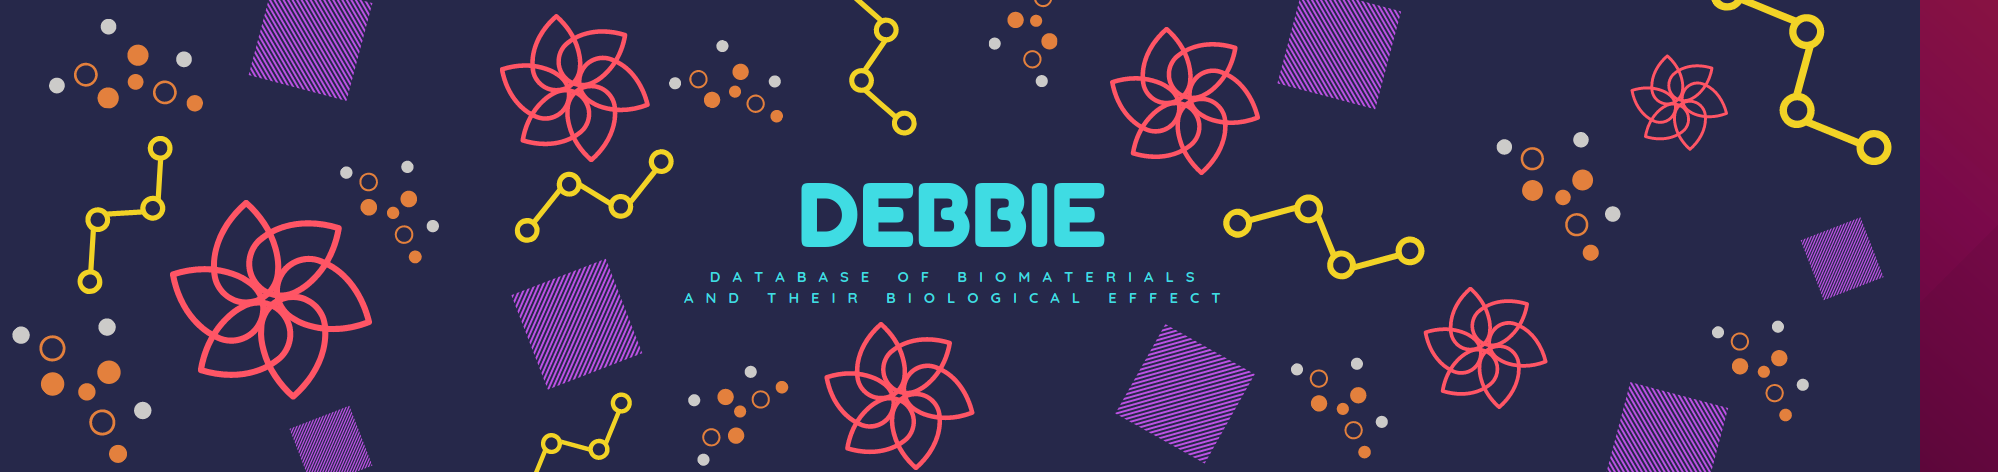
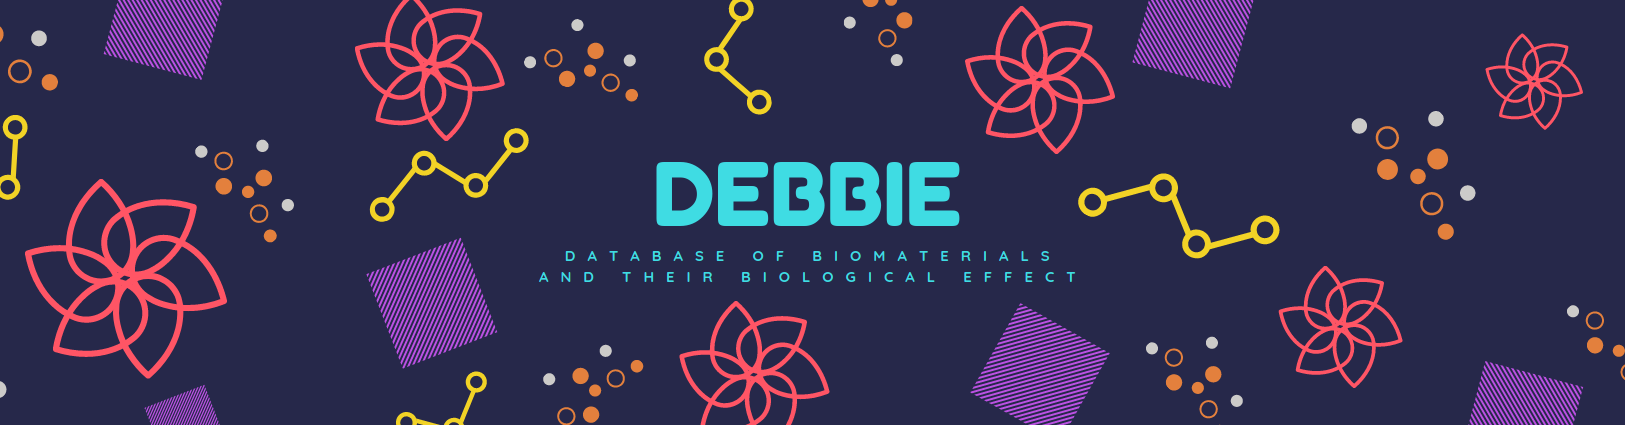
header image changes to size

diff --git a/index.html b/index.html
@@ -37,7 +37,7 @@
 <br>
 <!-- Header -->
 <header class="w3-display-container w3-content w3-wide w3-center" style="max-width:1245px; min-width:1245px;" id="home">
-  <img class="w3-image w3-center" style="border-radius: 25px;" src="images/Debbie_long.png" alt="Debbie_img" width="1500">
+  <img class="w3-image w3-center" style="border-radius: 25px;" src="images/Debbie_long.png" alt="Debbie_img">
 </header>  	
 
 <!-- Page content max-width:1564px -->
